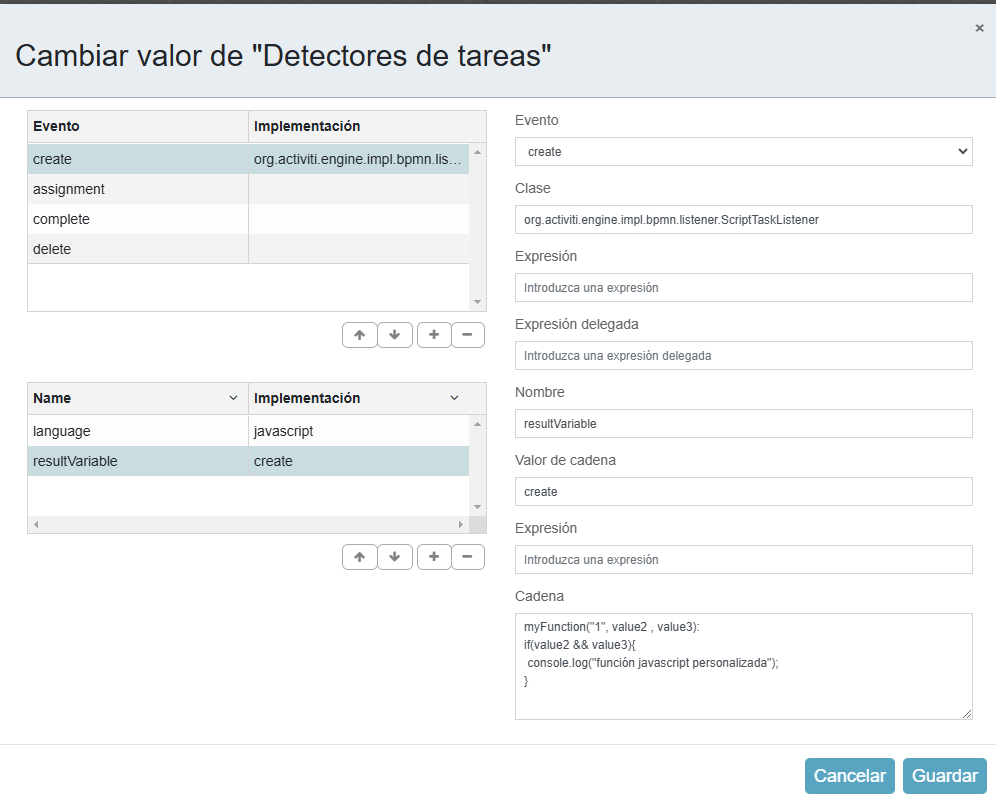
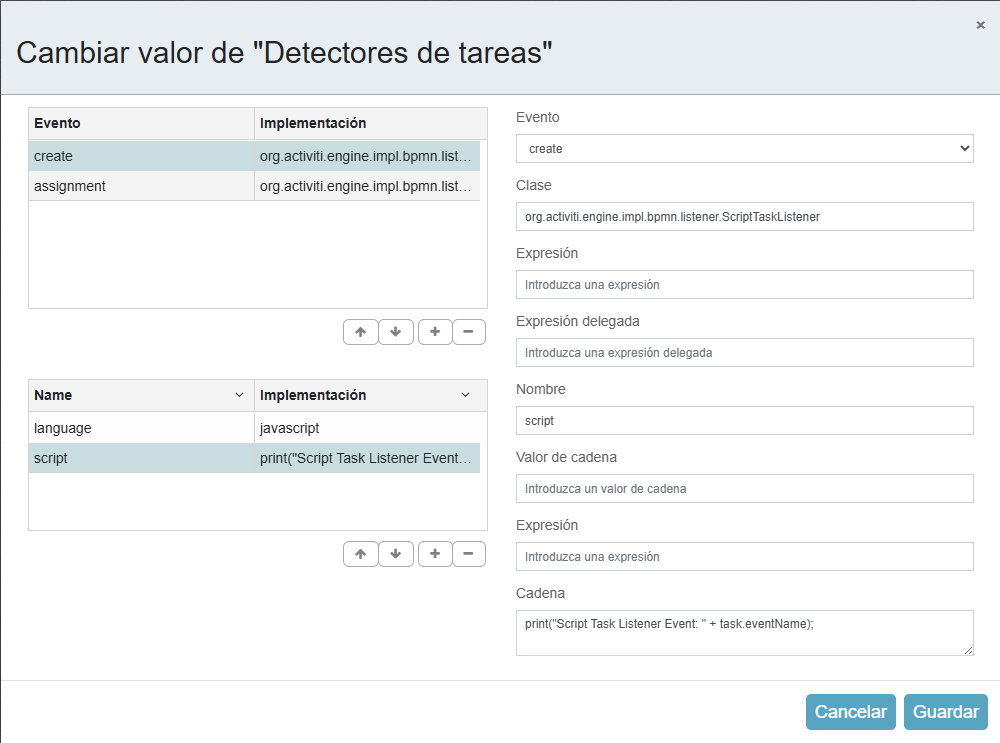
add BPMN process definitions for execution and script task listeners

diff --git a/Listeners/listeners.md b/Listeners/listeners.md
@@ -40,6 +40,7 @@ El executionListener va a estar definido en el evento de partida.
 package pe.com.domain.delegate;
 
 import org.activiti.engine.delegate.ExecutionListener;
+import org.activiti.bpmn.model.FlowElement;
 import org.activiti.engine.delegate.DelegateExecution;
 
 public class JavaExecutionListener implements ExecutionListener{
@@ -100,6 +101,7 @@ En el flujo de secuencia se define el evento ``take`` o ``Adquirir`` y utilizamo
 ```
 ${myExecutionListener.writeMessage(execution," Transition ")}
 ```
+[proceso implementado](./processes/ExecutionListeners.bpmn20.xml)
 
 ## Task Listeners
 
@@ -142,6 +144,8 @@ public class SpringTaskListener implements TaskListener{
 
 ![task Listener otros eventos](./img/taskListenerOtherEvents.png)
 
+[proceso implementado](./processes/taskListeners.bpmn20.xml)
+
 ## Otros Listeners
 
 Si bien la mayoría de los problemas pueden resolverse utilizando "execution listeners" o "task listeners", Alfresco Activiti admite otros tipos de listeners que cubren casos de uso más específicos.
@@ -163,10 +167,7 @@ org.activiti.engine.impl.bpmn.listener.ScriptTaskListener
 ``
 
 ```javascript
-myFunction("1", value2 , value3):
-if(value2 && value3){
- console.log("función javascript personalizada");
-}
+print("Script Task Listener Event: " + task.eventName);
 ```
 
 Ejecución de Script
@@ -179,6 +180,8 @@ org.activiti.engine.impl.bpmn.listener.ScriptTaskListener
 ```javascript
 print("Script Task Listener Event: " + task.eventName);
 ```
+
+[proceso implementado](./processes/ScriptTaskListener.bpmn20.xml)
 
 #### Script Execution Listener
 
